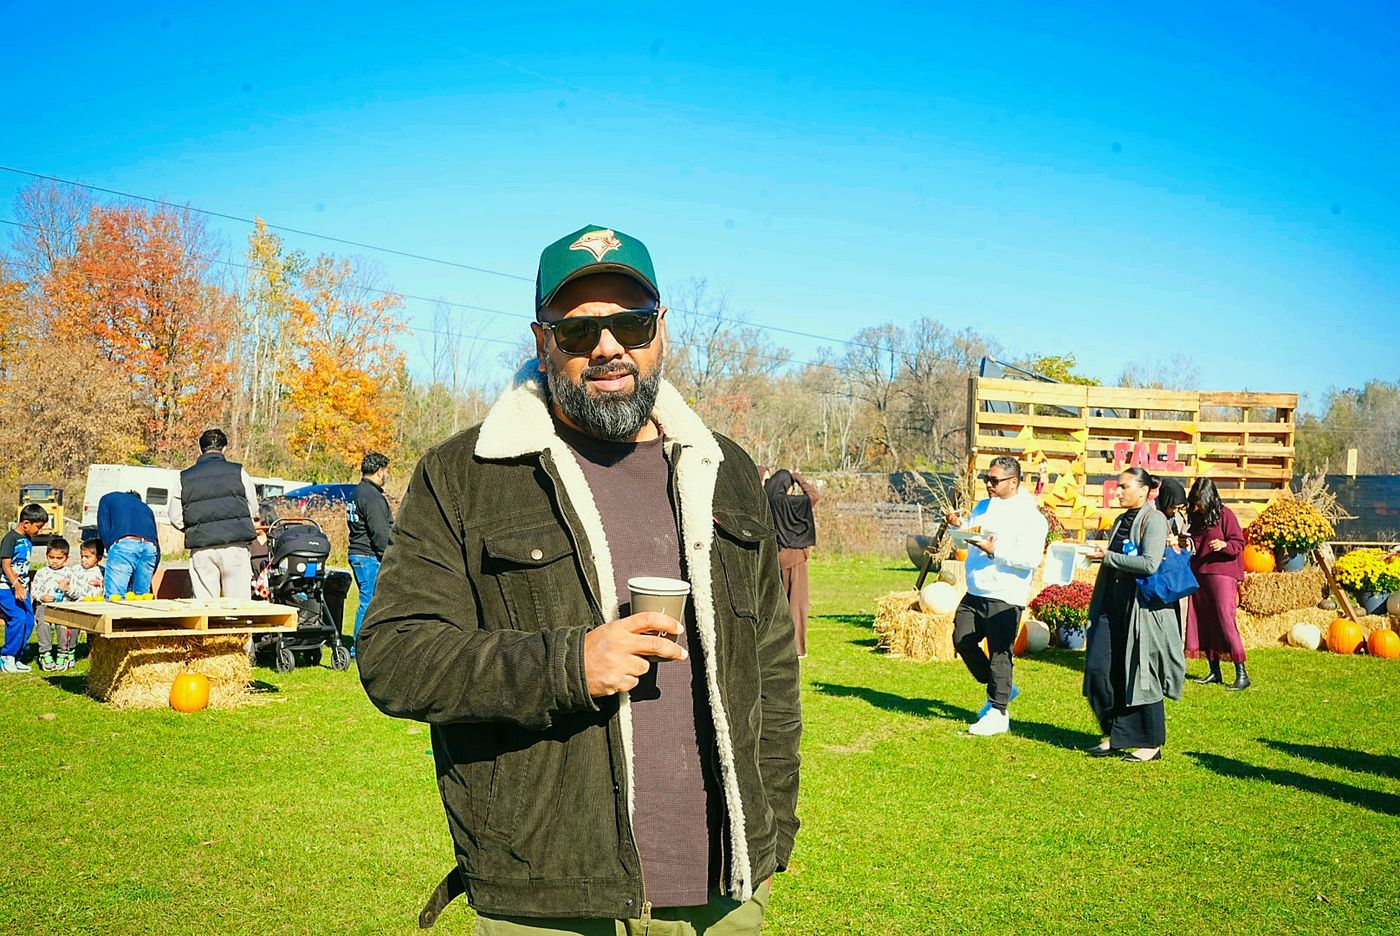
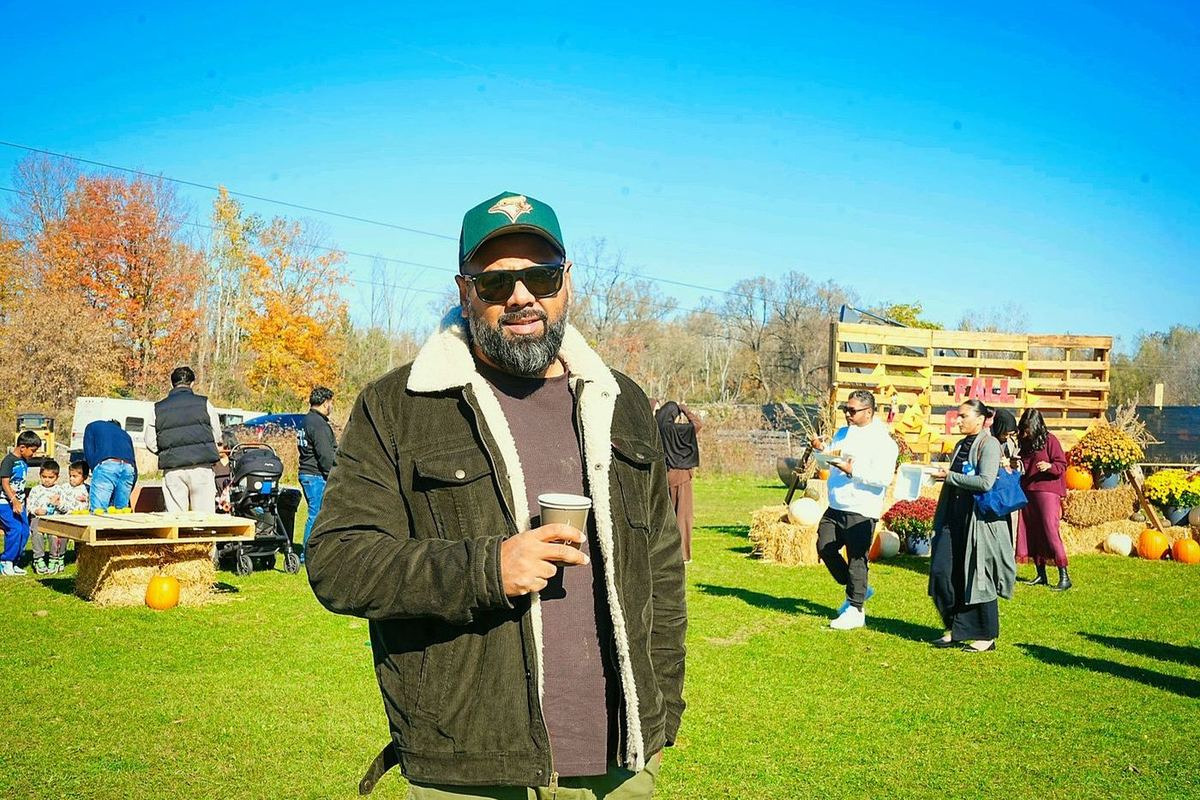
Fall Fun Fest: 57 more photos, every photo cut to the same 3:2 frame, gallery shuffled on every visit, matched slide motion
Claude-Session: https://claude.ai/code/session_01MhApnvSG27p9juGpCCFrhf

diff --git a/index.html b/index.html
@@ -118,7 +118,7 @@ section{padding-block:clamp(44px,6.5vw,80px)}
 /* 3D photo carousel: each photo swings in on a turn, the outgoing one swings away */
 .frame.wide{width:min(700px,100%);aspect-ratio:3/2}
 .cslides{position:absolute;inset:0;z-index:1;perspective:1500px;overflow:hidden}
-.cslides img{position:absolute;inset:0;width:100%;height:100%;object-fit:cover;cursor:zoom-in;opacity:0;transform:translateX(45%) rotateY(-50deg) scale(.86);transition:transform 2.1s cubic-bezier(.25,.75,.2,1),opacity 1.7s ease;backface-visibility:hidden}
+.cslides img{position:absolute;inset:0;width:100%;height:100%;object-fit:cover;cursor:zoom-in;opacity:0;transform:translateX(45%) rotateY(-50deg) scale(.86);transition:transform 1.6s cubic-bezier(.22,.8,.24,1),opacity 1.6s cubic-bezier(.22,.8,.24,1);backface-visibility:hidden}
 .cslides img.from-left{transform:translateX(-45%) rotateY(50deg) scale(.86)}
 .cslides img.on{opacity:1;transform:none}
 .cslides img.out-left{opacity:0;transform:translateX(-45%) rotateY(50deg) scale(.86)}
@@ -162,6 +162,7 @@ figcaption{font-family:var(--display);font-size:.66rem;letter-spacing:.22em;text
 .lens-card{position:relative;display:flex;align-items:center;gap:28px;max-width:640px;margin:40px auto 0;padding:26px 30px;background:var(--panel);border:1px solid var(--line);text-align:left}.lens-card::before{content:'';position:absolute;top:-1px;left:30px;right:30px;height:1px;background:linear-gradient(90deg,transparent,#c2202c,#e2622b,#e9a42c,transparent)}.lens-face{flex:none;width:112px;height:112px;border-radius:50%;object-fit:cover;object-position:50% 4%;border:1px solid var(--line);box-shadow:0 0 0 4px var(--panel),0 0 0 5px rgba(209,31,38,.45)}.lens-copy{min-width:0}.lens-copy .eyebrow{display:block;margin-bottom:6px}.lens-copy h3{font-family:var(--display);font-weight:600;font-size:1.35rem;letter-spacing:.06em;margin:0 0 8px;color:var(--fg)}.lens-copy p{margin:0 0 16px;color:var(--muted);line-height:1.6}.lens-link{padding:12px 20px}.lens-link .sr,.sr{position:absolute;width:1px;height:1px;overflow:hidden;clip:rect(0 0 0 0);white-space:nowrap}@media (max-width:560px){.lens-card{flex-direction:column;text-align:center;gap:18px;padding:24px 20px}}
 .aside-note{margin:30px auto 0;max-width:600px;padding-top:18px;position:relative;color:var(--muted);font-style:italic;line-height:1.65;text-align:center}.aside-note::before{content:'';position:absolute;top:0;left:50%;width:90px;margin-left:-45px;height:1px;background:linear-gradient(90deg,transparent,#c2202c,#e2622b,#e9a42c,transparent)}.aside-note .eyebrow{display:block;font-style:normal;margin-bottom:6px}.aside-note a.lk{color:#e2622b;font-style:normal;letter-spacing:.02em}
 .no3d .stage{display:none}
+.frame.carousel{aspect-ratio:3/2;width:min(560px,100%)}
 .grid-fallback{display:none;grid-template-columns:repeat(auto-fill,minmax(220px,1fr));gap:12px;width:100%}
 .no3d .grid-fallback{display:grid}
 .grid-fallback button{padding:0;border:1px solid var(--line);background:none;cursor:pointer;aspect-ratio:3/2;max-width:100%;overflow:hidden}
@@ -523,7 +524,7 @@ footer .links{display:flex;flex-wrap:wrap;justify-content:center;gap:10px 24px;f
   <section id="approach" data-cam="approach">
     <div class="wrap">
       <figure>
-        <div class="frame tilt carousel" data-photos="harvest-01,ff-252,ff-314@86%,ff-335,ff-246" role="region" aria-roledescription="carousel" aria-label="Fall Fun Fest photos"><div class="cslides"></div></div>
+        <div class="frame tilt carousel" data-photos="random" role="region" aria-roledescription="carousel" aria-label="Fall Fun Fest photos"><div class="cslides"></div></div>
         <div class="cctl"><button type="button" class="cbtn lk" data-dir="-1" aria-label="Previous photo">&#8249;</button><span class="cdots"></span><button type="button" class="cbtn lk" data-dir="1" aria-label="Next photo">&#8250;</button></div>
         <figcaption class="ccap">Fall Fun Fest 2026</figcaption>
       </figure>
@@ -639,7 +640,7 @@ footer .links{display:flex;flex-wrap:wrap;justify-content:center;gap:10px 24px;f
         <p class="sign">Nick Mehra<small>Owner &amp; Creative Director</small></p>
       </div>
       <figure style="margin-top:40px">
-        <div class="frame tilt carousel" data-photos="harvest-02,ff-307,ff-325,ff-298" role="region" aria-roledescription="carousel" aria-label="Fall Fun Fest photos"><div class="cslides"></div></div>
+        <div class="frame tilt carousel" data-photos="random" role="region" aria-roledescription="carousel" aria-label="Fall Fun Fest photos"><div class="cslides"></div></div>
         <div class="cctl"><button type="button" class="cbtn lk" data-dir="-1" aria-label="Previous photo">&#8249;</button><span class="cdots"></span><button type="button" class="cbtn lk" data-dir="1" aria-label="Next photo">&#8250;</button></div>
         <figcaption class="ccap">Fall Fun Fest 2026</figcaption>
       </figure>
@@ -818,30 +819,87 @@ footer .links{display:flex;flex-wrap:wrap;justify-content:center;gap:10px 24px;f
   var $ = function(id){ return document.getElementById(id); };
   var reduce = window.matchMedia && matchMedia('(prefers-reduced-motion: reduce)').matches;
 
+  // Every Fall Fun Fest photo, all cut to the same 3:2 frame. The order is shuffled on every visit.
   var PHOTOS = [
-    ['ff-307','Families decorating pumpkins at a long outdoor table','Pumpkin table'],
-    ['ff-246','Close view down a row of large orange pumpkins','Detail'],
-    ['ff-252','Painted Welcome Fall sign with hay bales, pumpkins and corn stalks','Set design'],
-    ['ff-342','A crowd of children and parents seated inside a white event tent','The audience'],
-    ['ff-343','A presenter holding a green parrot in front of a seated audience','Live show'],
-    ['ff-254','Giant blue four-in-a-row game on a lawn with event tents behind','Games'],
-    ['ff-312','Volunteers serving food at an outdoor stall with bunting','Food service'],
-    ['ff-327','A man crouching with two young children beside a Fall Fun Fest sign','Portraits'],
-    ['ff-325','Three adults and a toddler standing beside a Fall Fun Fest sign','Portraits'],
-    ['ff-335','A couple posing on the lawn in front of autumn trees','Portraits'],
-    ['ff-328','A couple posing on the lawn with the event behind them','Portraits'],
-    ['ff-309','Two women posing together on the lawn','Portraits'],
-    ['ff-313','A man and a boy smiling beside the lawn games','Portraits'],
-    ['ff-298','Two men seated at a wooden table with pumpkins','Candid'],
-    ['ff-337','A group of guests gathered near the hay bales','Candid'],
-    ['ff-293','Two guests talking near pumpkins and hay bales','Candid'],
-    ['ff-277','Three boys walking across the lawn in bright sun','Candid'],
-    ['ff-314','A man in a cap and jacket holding a cup on the lawn','Portraits'],
-    ['ff-320','A smiling man crouching beside a child in a white knit hat','Portraits'],
-    ['harvest-01','A smiling man crouching beside a young child in a white knit hat','Father and daughter'],
-    ['harvest-02','A man leaning in to speak with a young child in a white knit hat','Father and daughter'],
-    ['hero','Families decorating pumpkins at a long outdoor table on a sunny autumn day','The day']
+    ['ff-229', 'Autumn decorations of pumpkins, hay bales and signage at Fall Fun Fest', 'Set design'],
+    ['ff-230', 'Autumn decorations of pumpkins, hay bales and signage at Fall Fun Fest', 'Set design'],
+    ['ff-231', 'Autumn decorations of pumpkins, hay bales and signage at Fall Fun Fest', 'Set design'],
+    ['ff-232', 'Autumn decorations of pumpkins, hay bales and signage at Fall Fun Fest', 'Set design'],
+    ['ff-234', 'Autumn decorations of pumpkins, hay bales and signage at Fall Fun Fest', 'Set design'],
+    ['ff-235', 'Autumn decorations of pumpkins, hay bales and signage at Fall Fun Fest', 'Set design'],
+    ['ff-236', 'Autumn decorations of pumpkins, hay bales and signage at Fall Fun Fest', 'Set design'],
+    ['ff-237', 'Autumn decorations of pumpkins, hay bales and signage at Fall Fun Fest', 'Set design'],
+    ['ff-238', 'Autumn decorations of pumpkins, hay bales and signage at Fall Fun Fest', 'Set design'],
+    ['ff-241', 'Branded sponsor tote bags on the grass at Fall Fun Fest', 'Detail'],
+    ['ff-243', 'Autumn decorations of pumpkins, hay bales and signage at Fall Fun Fest', 'Set design'],
+    ['ff-244', 'Autumn decorations of pumpkins, hay bales and signage at Fall Fun Fest', 'Set design'],
+    ['ff-245', 'Autumn decorations of pumpkins, hay bales and signage at Fall Fun Fest', 'Set design'],
+    ['ff-246', 'Close view down a row of large orange pumpkins', 'Detail'],
+    ['ff-247', 'Autumn decorations of pumpkins, hay bales and signage at Fall Fun Fest', 'Set design'],
+    ['ff-248', 'Autumn decorations of pumpkins, hay bales and signage at Fall Fun Fest', 'Set design'],
+    ['ff-249', 'Giant lawn games set up on the grass at Fall Fun Fest', 'Games'],
+    ['ff-250', 'Autumn decorations of pumpkins, hay bales and signage at Fall Fun Fest', 'Set design'],
+    ['ff-251', 'Autumn decorations of pumpkins, hay bales and signage at Fall Fun Fest', 'Set design'],
+    ['ff-252', 'Painted Welcome Fall sign with hay bales, pumpkins and corn stalks', 'Set design'],
+    ['ff-253', 'Autumn decorations of pumpkins, hay bales and signage at Fall Fun Fest', 'Set design'],
+    ['ff-254', 'Giant blue four-in-a-row game on a lawn with event tents behind', 'Games'],
+    ['ff-255', 'Giant lawn games set up on the grass at Fall Fun Fest', 'Games'],
+    ['ff-256', 'Giant lawn games set up on the grass at Fall Fun Fest', 'Games'],
+    ['ff-257', 'Giant lawn games set up on the grass at Fall Fun Fest', 'Games'],
+    ['ff-261', 'Guests enjoying a sunny afternoon at Fall Fun Fest', 'Candid'],
+    ['ff-268', 'Families decorating pumpkins at a long outdoor table', 'Pumpkin table'],
+    ['ff-269', 'Guests enjoying a sunny afternoon at Fall Fun Fest', 'Candid'],
+    ['ff-270', 'Guests enjoying a sunny afternoon at Fall Fun Fest', 'Candid'],
+    ['ff-271', 'Guests enjoying a sunny afternoon at Fall Fun Fest', 'Candid'],
+    ['ff-272', 'Guests enjoying a sunny afternoon at Fall Fun Fest', 'Candid'],
+    ['ff-274', 'Guests enjoying a sunny afternoon at Fall Fun Fest', 'Candid'],
+    ['ff-275', 'Guests enjoying a sunny afternoon at Fall Fun Fest', 'Candid'],
+    ['ff-276', 'Guests enjoying a sunny afternoon at Fall Fun Fest', 'Candid'],
+    ['ff-277', 'Three boys walking across the lawn in bright sun', 'Candid'],
+    ['ff-278', 'Food being served at an outdoor stall at Fall Fun Fest', 'Food service'],
+    ['ff-279', 'Food being served at an outdoor stall at Fall Fun Fest', 'Food service'],
+    ['ff-280', 'Food being served at an outdoor stall at Fall Fun Fest', 'Food service'],
+    ['ff-281', 'Food being served at an outdoor stall at Fall Fun Fest', 'Food service'],
+    ['ff-282', 'Guests enjoying a sunny afternoon at Fall Fun Fest', 'Candid'],
+    ['ff-289', 'Guests enjoying a sunny afternoon at Fall Fun Fest', 'Candid'],
+    ['ff-290', 'Guests enjoying a sunny afternoon at Fall Fun Fest', 'Candid'],
+    ['ff-291', 'Guests enjoying a sunny afternoon at Fall Fun Fest', 'Candid'],
+    ['ff-292', 'Guests enjoying a sunny afternoon at Fall Fun Fest', 'Candid'],
+    ['ff-293', 'Two guests talking near pumpkins and hay bales', 'Candid'],
+    ['ff-294', 'Guests enjoying a sunny afternoon at Fall Fun Fest', 'Candid'],
+    ['ff-295', 'Guests enjoying a sunny afternoon at Fall Fun Fest', 'Candid'],
+    ['ff-296', 'Guests posing for a portrait on the lawn at Fall Fun Fest', 'Portraits'],
+    ['ff-297', 'Guests posing for a portrait on the lawn at Fall Fun Fest', 'Portraits'],
+    ['ff-298', 'Two men seated at a wooden table with pumpkins', 'Candid'],
+    ['ff-299', 'Guests posing for a portrait on the lawn at Fall Fun Fest', 'Portraits'],
+    ['ff-300', 'Guests enjoying a sunny afternoon at Fall Fun Fest', 'Candid'],
+    ['ff-301', 'Guests enjoying a sunny afternoon at Fall Fun Fest', 'Candid'],
+    ['ff-302', 'Guests enjoying a sunny afternoon at Fall Fun Fest', 'Candid'],
+    ['ff-303', 'Guests enjoying a sunny afternoon at Fall Fun Fest', 'Candid'],
+    ['ff-304', 'Guests enjoying a sunny afternoon at Fall Fun Fest', 'Candid'],
+    ['ff-305', 'Guests enjoying a sunny afternoon at Fall Fun Fest', 'Candid'],
+    ['ff-306', 'Guests enjoying a sunny afternoon at Fall Fun Fest', 'Candid'],
+    ['ff-307', 'Families decorating pumpkins at a long outdoor table', 'Pumpkin table'],
+    ['ff-308', 'Guests posing for a portrait on the lawn at Fall Fun Fest', 'Portraits'],
+    ['ff-309', 'Two women posing together on the lawn', 'Portraits'],
+    ['ff-311', 'Guests posing for a portrait on the lawn at Fall Fun Fest', 'Portraits'],
+    ['ff-312', 'Volunteers serving food at an outdoor stall with bunting', 'Food service'],
+    ['ff-313', 'A man and a boy smiling beside the lawn games', 'Portraits'],
+    ['ff-314', 'A man in a cap and jacket holding a cup on the lawn', 'Portraits'],
+    ['ff-315', 'Guests posing for a portrait on the lawn at Fall Fun Fest', 'Portraits'],
+    ['ff-318', 'Guests posing for a portrait on the lawn at Fall Fun Fest', 'Portraits'],
+    ['ff-319', 'Guests posing for a portrait on the lawn at Fall Fun Fest', 'Portraits'],
+    ['ff-320', 'A smiling man crouching beside a child in a white knit hat', 'Portraits'],
+    ['ff-325', 'Three adults and a toddler standing beside a Fall Fun Fest sign', 'Portraits'],
+    ['ff-327', 'A man crouching with two young children beside a Fall Fun Fest sign', 'Portraits'],
+    ['ff-328', 'A couple posing on the lawn with the event behind them', 'Portraits'],
+    ['ff-335', 'A couple posing on the lawn in front of autumn trees', 'Portraits'],
+    ['ff-337', 'A group of guests gathered near the hay bales', 'Candid'],
+    ['ff-342', 'A crowd of children and parents seated inside a white event tent', 'The audience'],
+    ['ff-343', 'A presenter holding a green parrot in front of a seated audience', 'Live show'],
+    ['hero', 'Families decorating pumpkins at a long outdoor table on a sunny autumn day', 'The day']
   ];
+  (function(){ for (var i = PHOTOS.length - 1; i > 0; i--){ var j = Math.floor(Math.random() * (i + 1)), t = PHOTOS[i]; PHOTOS[i] = PHOTOS[j]; PHOTOS[j] = t; } })();
 
   /* ---------------- Theme ---------------- */
   var root = document.documentElement;
@@ -1264,9 +1322,12 @@ footer .links{display:flex;flex-wrap:wrap;justify-content:center;gap:10px 24px;f
 
   /* 3D photo carousels */
   function photoIndex(id){ for (var i = 0; i < PHOTOS.length; i++) if (PHOTOS[i][0] === id) return i; return -1; }
+  var carouselPool = PHOTOS.map(function(p){ return p[0]; }).filter(function(id){ return id !== 'hero'; }).reverse();
   document.querySelectorAll('.carousel').forEach(function(frame){
     // each entry is a photo id, optionally "@x%" to choose which part of a wide photo the tall frame shows
     var entries = frame.getAttribute('data-photos').split(',');
+    // "random": six photos drawn fresh on every visit, never repeating what the other carousel shows
+    if (entries[0] === 'random'){ entries = []; while (entries.length < 6 && carouselPool.length) entries.push(carouselPool.shift()); }
     var ids = entries.map(function(e){ return e.split('@')[0]; });
     var pos = entries.map(function(e){ return e.split('@')[1] || ''; });
     var box = frame.querySelector('.cslides');
@@ -1297,7 +1358,7 @@ footer .links{display:flex;flex-wrap:wrap;justify-content:center;gap:10px 24px;f
       inc.className = 'on'; inc.removeAttribute('aria-hidden');
       cur = n; label();
     }
-    function restart(){ clearInterval(timer); if (!reduce) timer = setInterval(function(){ if (!hover && lb.hidden) go(cur + 1, 1); }, 8000); }
+    function restart(){ clearInterval(timer); if (!reduce) timer = setInterval(function(){ if (!hover && lb.hidden) go(cur + 1, 1); }, 7000); }
     fig.querySelectorAll('.cbtn').forEach(function(b){ b.addEventListener('click', function(){ var d = +b.getAttribute('data-dir'); go(cur + d, d); restart(); }); });
     frame.addEventListener('pointerenter', function(){ hover = true; });
     frame.addEventListener('pointerleave', function(){ hover = false; });
@@ -1635,7 +1696,6 @@ footer .links{display:flex;flex-wrap:wrap;justify-content:center;gap:10px 24px;f
   }
 
   // Hero: the festival photograph large behind the headline
-  var HERO_IDX = PHOTOS.length - 1;
   // The opening backdrop: a modern estate at blue hour with a luxury car and motorcoach, no glow, no frame and feathered edges
   var hero = makePrint(['estate', 'A modern estate at dusk with a black sports car and a luxury motorcoach in the driveway', 'Estate'], 34, 'hero');
   hero.mesh.material.fog = false;
@@ -1644,11 +1704,13 @@ footer .links{display:flex;flex-wrap:wrap;justify-content:center;gap:10px 24px;f
   hero.group.position.set(0, 1.5, -26); hero.baseY = 1.5; hero.baseZ = -26;
   scene.add(hero.group);
 
+  // The ring shows 22 photos picked at random each visit; the corridor shows the rest
+  var RING_N = Math.min(22, PHOTOS.length);
+
   // The corridor: prints floating on both sides of the camera path
   var corridor = [];
   (function(){
-    var seq = [], i, n = PHOTOS.length - 1;
-    for (i = 0; i < n; i++) seq.push(i);
+    var n = PHOTOS.length;
     // Spaced out: one print per side every 10 units, the two sides staggered by 5,
     // alternating high and low so neighbours never stack into one bright patch.
     var k = 0;
@@ -1656,8 +1718,8 @@ footer .links{display:flex;flex-wrap:wrap;justify-content:center;gap:10px 24px;f
       for (var s = 0; s < 2; s++){
         var side = s ? 1 : -1, zz = z - s * 5;
         if (Math.abs(zz - RZ) < 25) continue;
-        var idx = seq[(k * 7 + 3) % n];
-        var f = makePrint(idx, 3.7 + Math.random() * 1.1, 'print');
+        var idx = (RING_N + k) % n;
+        var f = makePrint(idx, 4.2, 'print', 1.5);
         f.side = side; f.xn = Math.random();
         f.baseY = ((k + s) % 2 ? 1.9 : -1.7) + (Math.random() - .5) * .6;
         f.baseZ = zz;
@@ -1672,10 +1734,10 @@ footer .links{display:flex;flex-wrap:wrap;justify-content:center;gap:10px 24px;f
   }
 
   // The portfolio ring
-  var RING_C = new THREE.Vector3(0, 0, RZ), R = 13.5, PW = 4.05, PH = 2.7, RING_N = PHOTOS.length;
+  var RING_C = new THREE.Vector3(0, 0, RZ), R = 13.5, PW = 4.05, PH = 2.7, RING_N_UNUSED = 0;
   var ring = new THREE.Group(); ring.position.copy(RING_C); scene.add(ring);
   var panels = [];
-  PHOTOS.forEach(function(p, i){
+  PHOTOS.slice(0, RING_N).forEach(function(p, i){
     var th = i / RING_N * Math.PI * 2;
     var f = makePrint(i, PW, 'ring', PW / PH);
     f.group.position.set(Math.sin(th) * R, 0, -Math.cos(th) * R);
